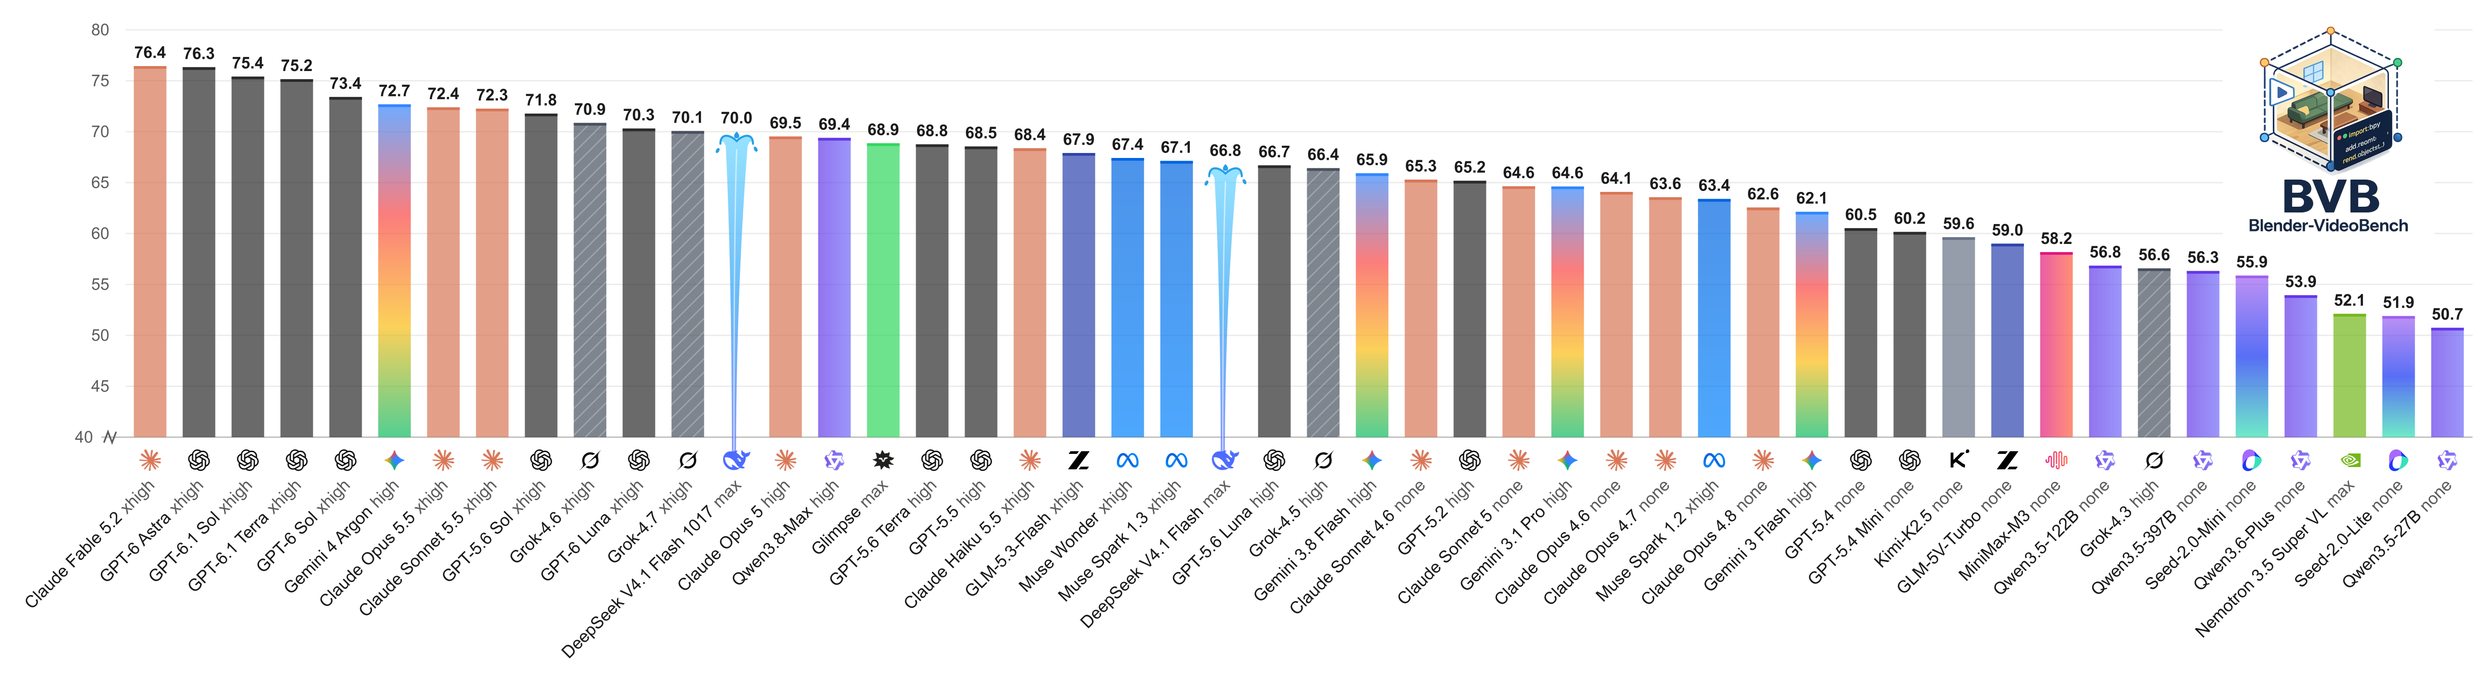
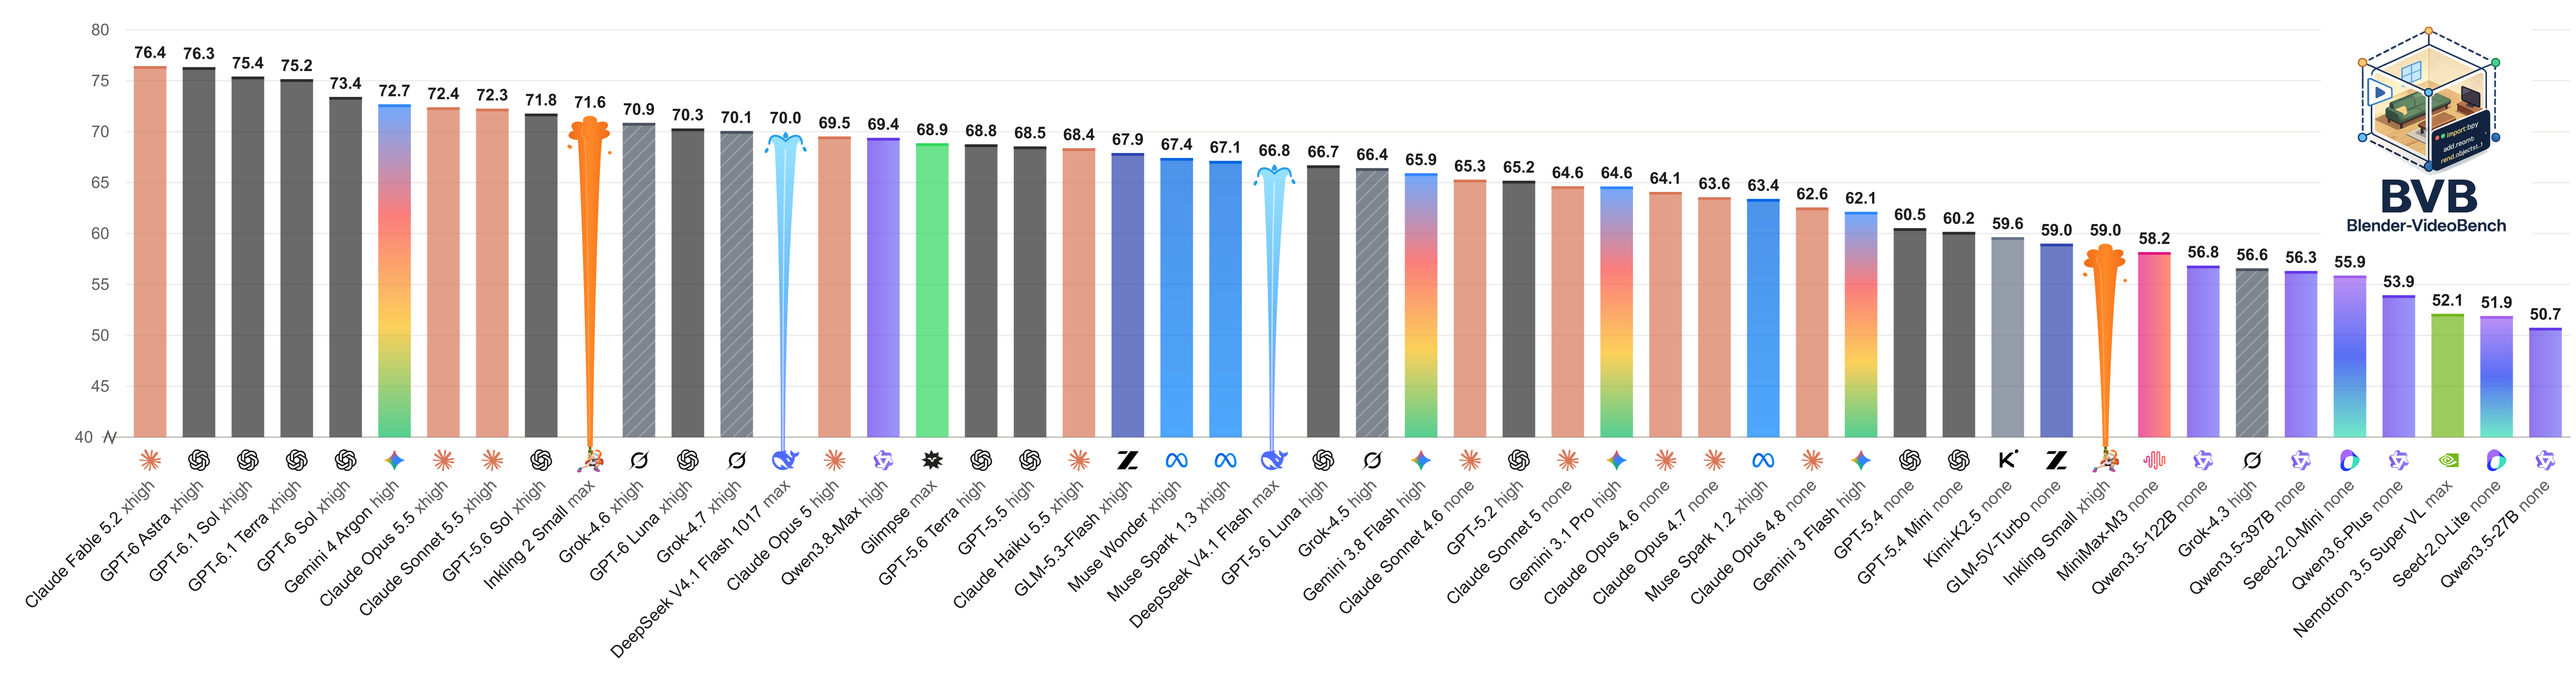
update inkling results

Changed region(s): [[0.0, 0.0619, 0.9995, 0.9289], [0.9058, 0.031, 0.9682, 0.3406], [0.2186, 0.8979, 0.2499, 0.9598]]

diff --git a/README.md b/README.md
@@ -11,7 +11,7 @@
 
 <p align="center">
   <a href="https://yoloytang.me/BVB/#leaderboard">
-    <img src="assets/bvb-leaderboard.png?v=71f617eec3c9" alt="BVB Overall leaderboard: best configuration per model" width="1200">
+    <img src="assets/bvb-leaderboard.png?v=1e52233ebd4d" alt="BVB Overall leaderboard: best configuration per model" width="1200">
   </a>
 </p>
 
@@ -30,6 +30,7 @@ limit. External asset libraries are not allowed.
 
 ## Updates
 
+- **[11/12/2026]** Added Inkling Small (xhigh) and Inkling 2 Small (max) to the [leaderboard](https://yoloytang.me/BVB/#leaderboard).
 - **[11/11/2026]** Added Claude Fable 5.2 (xhigh) to the [leaderboard](https://yoloytang.me/BVB/#leaderboard).
 - **[10/27/2026]** Added GPT-6.1 Terra (xhigh), Glimpse (max), and Nemotron 3.5 Super VL (max) to the [leaderboard](https://yoloytang.me/BVB/#leaderboard).
 - **[10/19/2026] ⚠ For users evaluating their own models:** We fixed missing multiple-choice options in Dual VQA evaluation. Please use the latest [`dual_vqa_metric.py`](eval/dual_vqa_metric.py) and re-download [`original_answers.jsonl`](https://huggingface.co/datasets/yoloytang/BVB-results/blob/main/_dual_vqa_shared/original_answers.jsonl).
